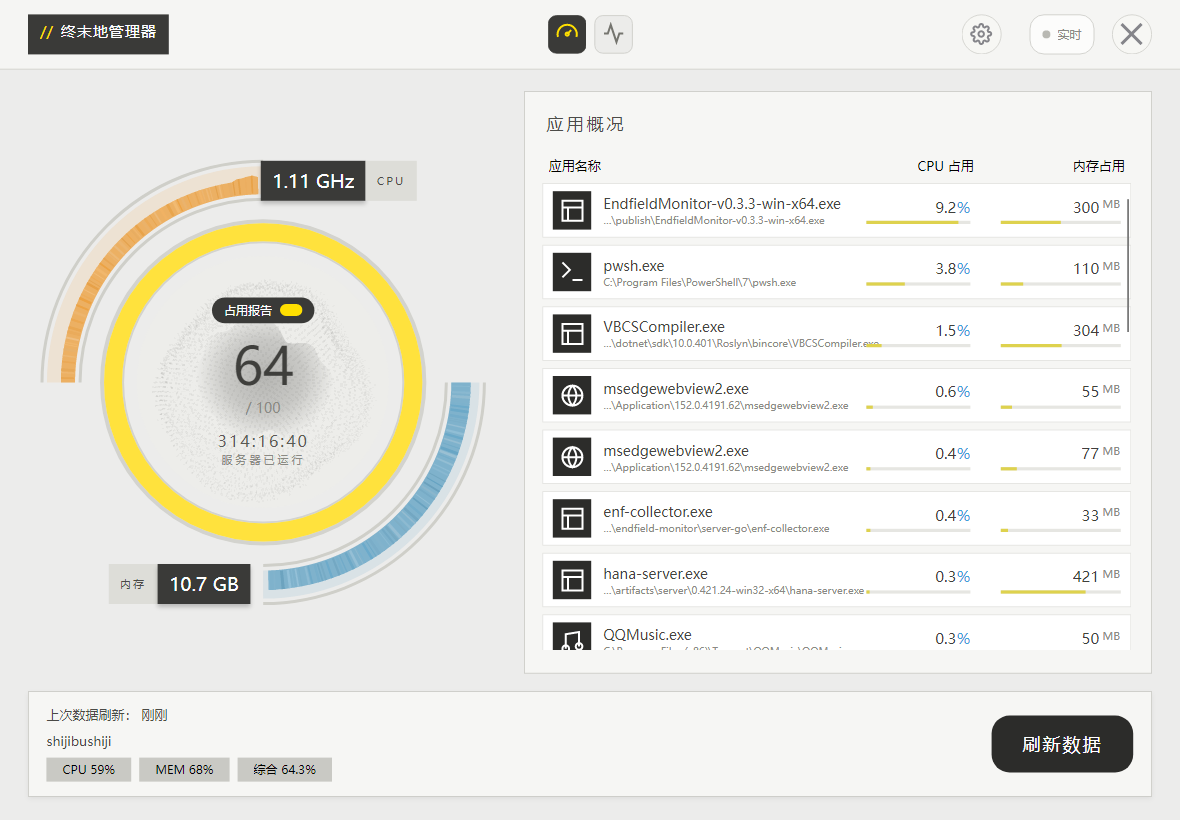
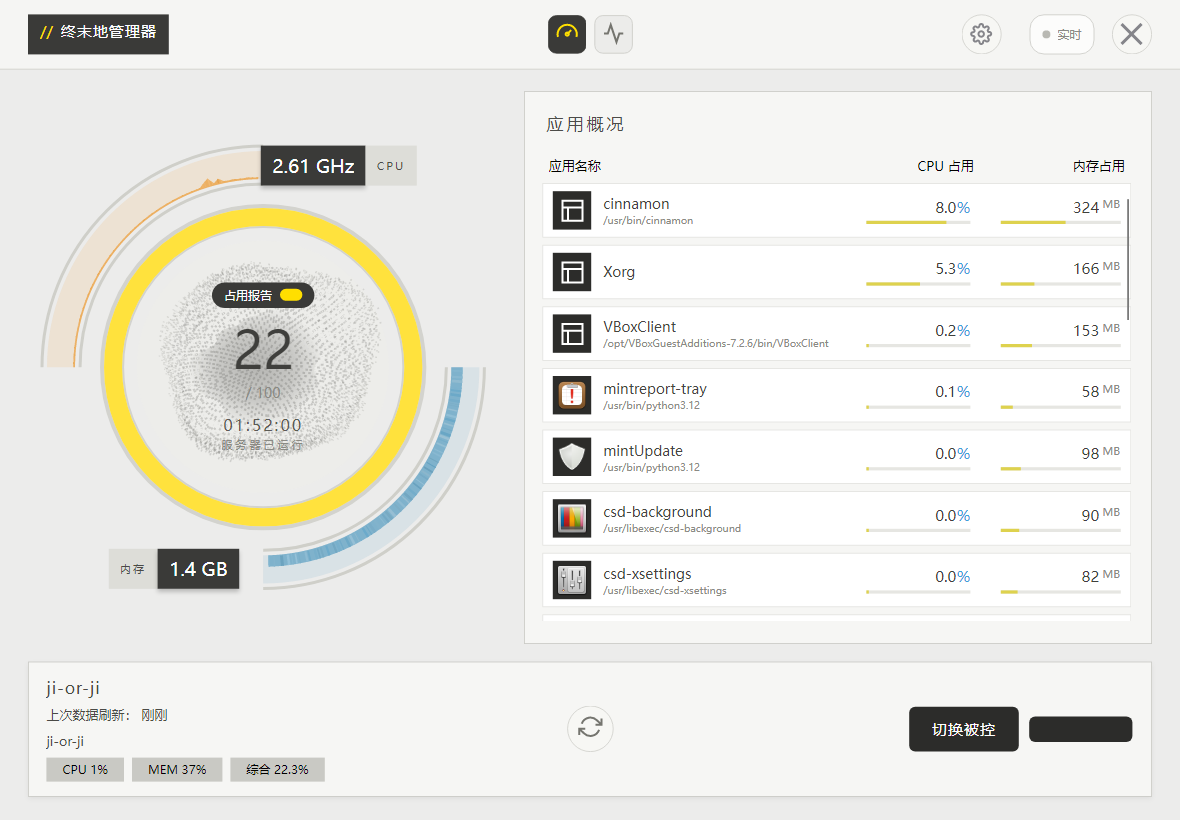
主界面截图换新（Linux 采集端 + Windows 客户端）；发行说明 v0.7.3

diff --git a/publish/RELEASE-v0.7.3.md b/publish/RELEASE-v0.7.3.md
@@ -1,0 +1,37 @@
+# EndfieldMonitor v0.7.3
+
+> 这一版把 Linux 侧的应用图标接了过来：采集端优先给位图，客户端自带 XPM 解码。
+
+## Linux 应用图标：优先取位图，脚本应用按真身认
+
+上一版验证 Linux 采集端时，客户端一直显示不出 Linux 的应用图标。
+补这一环时挖出三层问题，都不是「取不到」，而是「取回来了却用不了 / 认错了」。
+
+- **矢量图标客户端画不出来**。增强版把图标文件原样转发给客户端，而 Linux 图标大多是
+  SVG / XPM，位图解码器啃不动，只能退回字形。现在采集端**先只找 PNG**，找不到才退回
+  SVG / XPM——不少图标本来就备着 PNG，此前被优先命中的 `scalable/` SVG 白白盖掉了。
+- **客户端自带 XPM 解码器**。XPM 是纯文本像素图，手写一份解出来，不引第三方库，装好即用。
+- **脚本型应用认错了图标**。`cinnamon-settings`、`mintUpdate` 这类是 python 脚本，
+  可执行文件都是 `python3.12`，于是全被认成 Python、顶着同一个图标。现在采集端改从
+  **argv** 里取应用的「真身」名字，解释器本身不再作为候选；`Exec=` 里
+  `env VAR=val prog` 这层包装也一并穿透。
+- **缓存键修正**。图标缓存原按可执行文件路径做键，而脚本应用共用解释器这个 exe，
+  会被第一个解析结果吞掉（四个应用返回同一个图标）。现在服务端与客户端的缓存键都带上进程名。
+
+### 已验证
+
+- 在 **Linux Mint 22.3** 虚拟机里跑增强版采集端，Windows 客户端跨机查看：
+  `csd-*`、`mintreport-tray`、`mintUpdate` 等各行取回各自的真图标，
+  此前顶着 Python 图标的脚本应用也各归各位。
+- 只有 SVG、没有 PNG 的图标（如 `cinnamon`）仍退回字形。
+
+## 已知不稳 / 还没做
+
+- 客户端仍画不了 **SVG** 图标，这类行会退回本地字形。
+- 采集端「取窗口标题」的启发式仍可能抓错（例如 `explorer.exe` 会取到任务栏辅助窗口的标题）。
+- 依赖 WMI 的项（内存条型号、磁盘介质、显卡、计划任务）在 Linux 上本就留空。
+
+## 下载
+
+见本发行版附件。平台 win / linux，架构 x64 / arm64。
+套件（bundle）里客户端与采集端同目录即可，客户端会自动拉起采集端。
